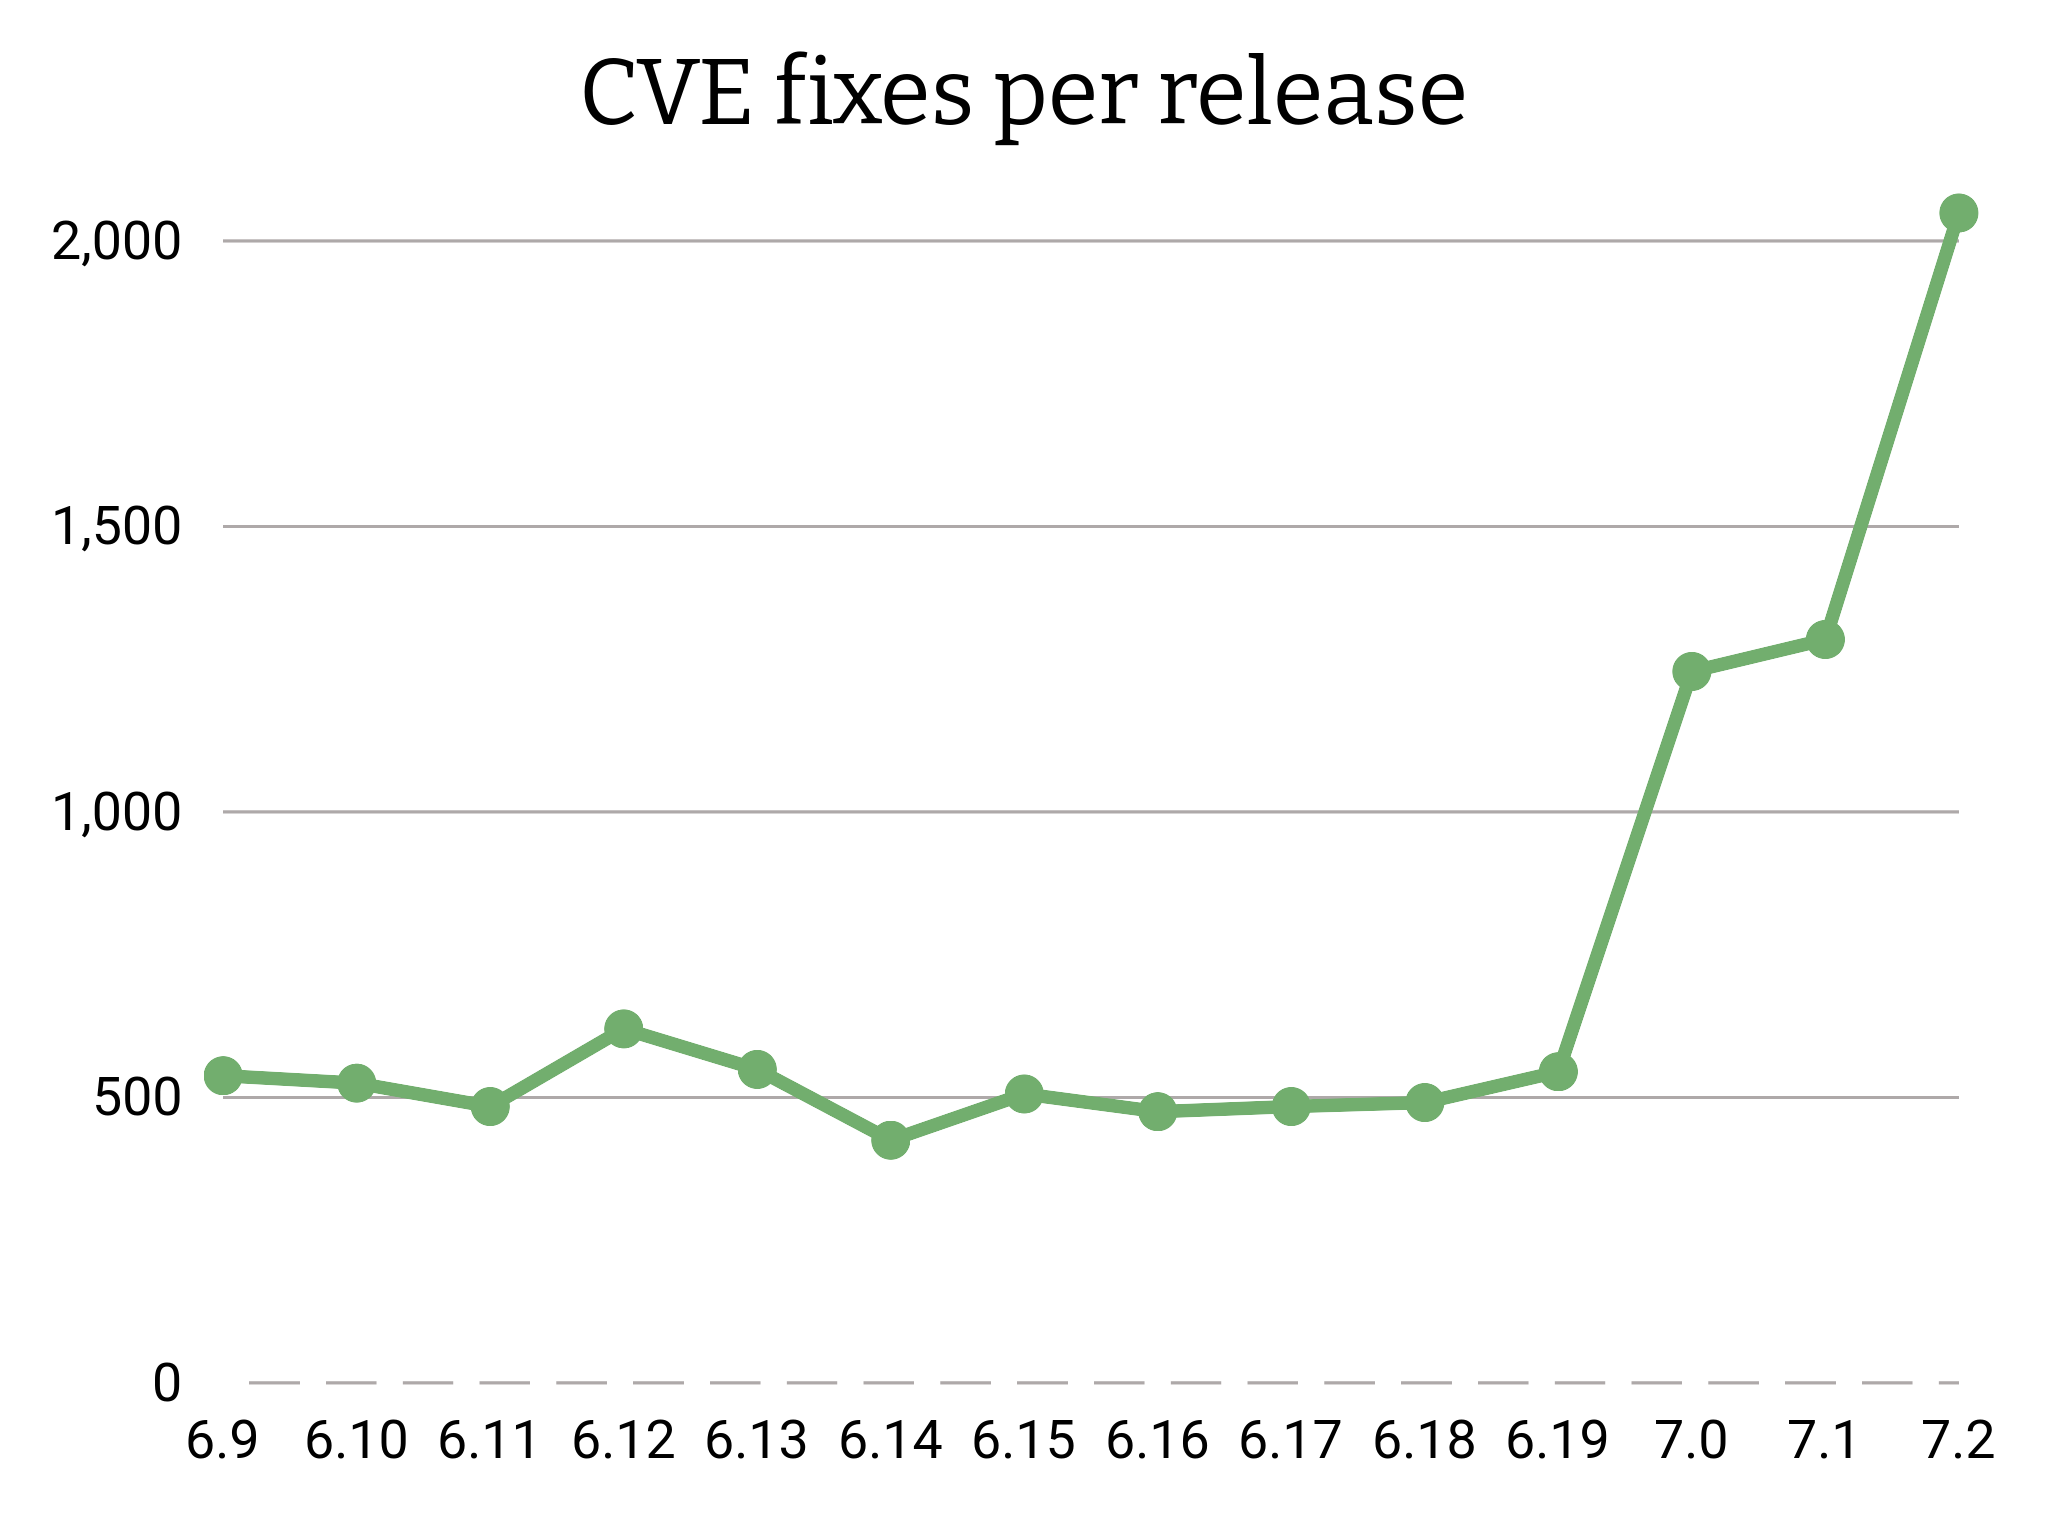
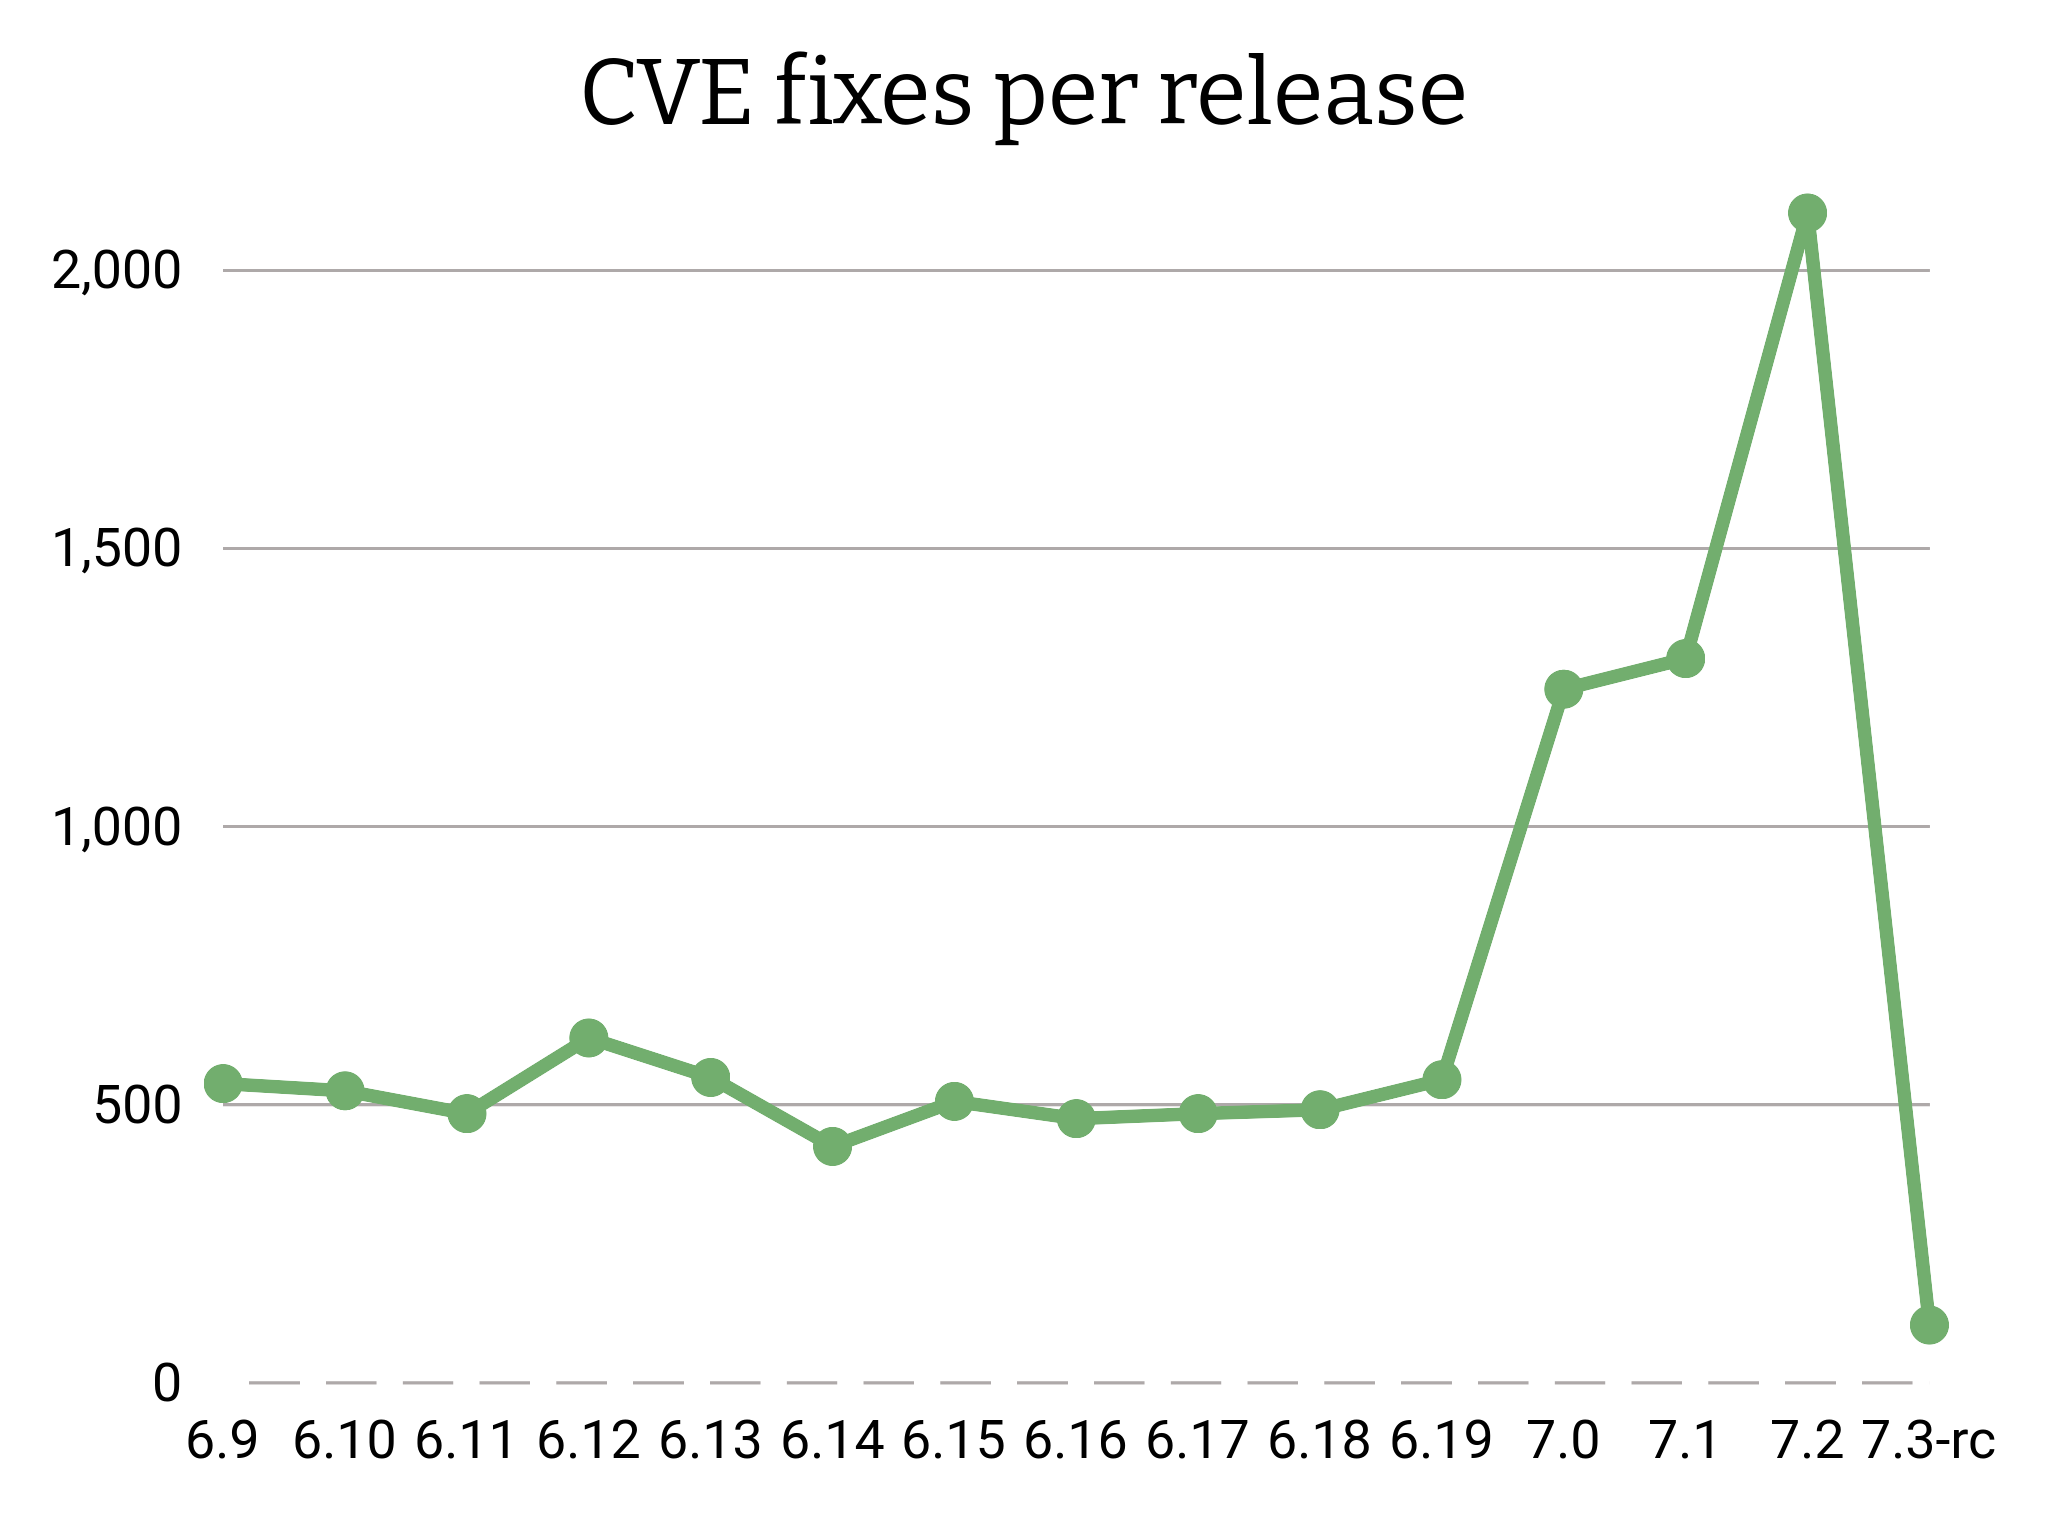
add -rc for fixes

diff --git a/graphs/patches_per_release/cves_per_release.rb b/graphs/patches_per_release/cves_per_release.rb
@@ -16,7 +16,8 @@ g.labels = {
   10 => '6.19',
   11 => '7.0',
   12 => '7.1',
-  13 => '7.2'
+  13 => '7.2',
+  14 => '7.3-rc',
 }
 
 g.theme = Gruff::Themes::PASTEL
@@ -44,9 +45,10 @@ g.data(' ', [
         484,
         491,
         545,
-        1246,
+        1247,
         1302,
-        2049],
+        2103,
+        104],
 	'#72AE6E') # green
 
 g.write('cves_fixed_per_release.png')
